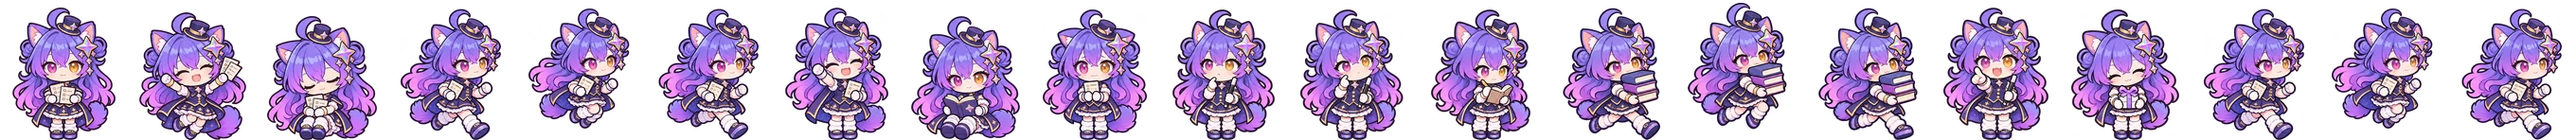
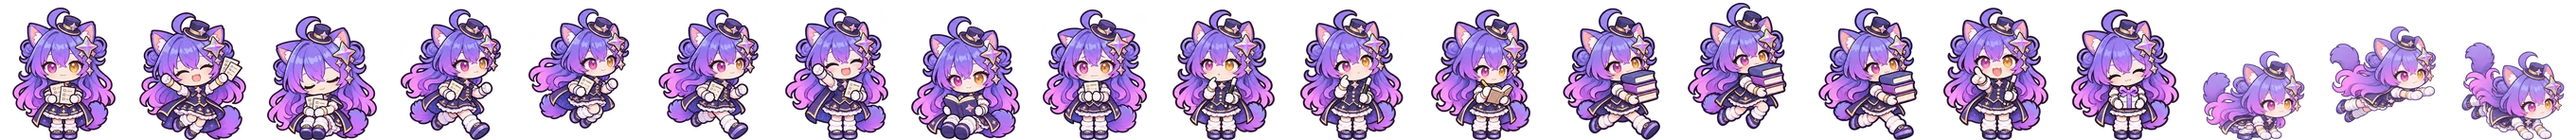
迷你小帮手：GPT 飞、Gemini 和 GLM 扑有了自己的移动帧，DeepSeek 改回跑步
- GPT、Gemini、GLM、魔术师 Gemini 的 mini.webp 带上 3 帧移动（GPT 画的那批，按 loki 选的版本）
- 切图：移动图按透明的空列分开每只（扑出去那帧会越过三等分线），三帧按身体重心对齐左右，
  不再按脚对齐（扑的时候一前冲一后退，看起来一卡一退）
- DeepSeek 试过游，还是跑步好看：她和皮肤都走默认的跑步

Changed region(s): [[0.8438, 0.0541, 1.0, 1.0]]

diff --git a/tests/mini_helper.test.js b/tests/mini_helper.test.js
@@ -39,7 +39,7 @@ test('crew_self_first_then_good_friends_by_points', () => {
   const c = M.crew('claude', { store, manifest, today: '2026-11-20', levelOf: lv })
   assert.deepEqual(c.map(x => x.id), ['claude', 'gemini', 'deepseek'])   // gpt 只「认识了」不算
   assert.equal(c[2].sheet, 'file:///x/characters/deepseek-pajamas/mini.webp')   // 穿着睡衣就是睡衣那套
-  assert.deepEqual(c.map(x => x.move), ['run', 'pounce', 'swim'])
+  assert.deepEqual(c.map(x => x.move), ['run', 'pounce', 'run'])   // deepseek 跑步（游泳试过不用了）
 })
 test('crew_falls_back_to_base_sheet_when_skin_has_none', () => {
   const c = M.crew('claude', { store: { 'claude+gpt': S(200) }, manifest, today: '2026-11-20', levelOf: lv })
@@ -75,7 +75,7 @@ test('crew_waits_for_level_up_chat_before_showing_friend', () => {
   assert.deepEqual(at({ points: 200, shown: 1, giftShown: true }), ['claude', 'gemini'])
 })
 test('move_of', () => {
-  assert.equal(M.moveOf('gpt'), 'fly'); assert.equal(M.moveOf('deepseek'), 'swim')
+  assert.equal(M.moveOf('gpt'), 'fly'); assert.equal(M.moveOf('deepseek'), 'run')
   assert.equal(M.moveOf('gemini'), 'pounce'); assert.equal(M.moveOf('glm'), 'pounce'); assert.equal(M.moveOf('kimi'), 'run')
 })
 // 连体衣的翅膀只是衣服上的装饰（loki 定的）：穿着它、用它自己那套图时跑着走，不飞

diff --git a/app/web/mini-helper.js b/app/web/mini-helper.js
@@ -259,10 +259,10 @@ html.tucked .mini { visibility: hidden; }`
     }
   }
 
-  // 移动方式按原版：gpt 飞，deepseek 游，gemini、glm 扑，其他跑。
+  // 移动方式按原版：gpt 飞，gemini、glm 扑，其他跑（deepseek 试过游，loki 觉得还是跑步好看）。
   // 皮肤另说的（MOVE_SKIN）：穿着它、用的又是它自己那套图时按皮肤的。连体衣的翅膀只是衣服上的装饰，跑着走不飞；
   // 皮肤没有自己的图、借原版那套时，帧是原版画的，照原版的走
-  const MOVE = { gpt: 'fly', deepseek: 'swim', gemini: 'pounce', glm: 'pounce' }
+  const MOVE = { gpt: 'fly', gemini: 'pounce', glm: 'pounce' }
   const MOVE_SKIN = { 'gpt-onesie': 'run' }
   const moveOf = (id, c) => (c && c.skin && MOVE_SKIN[c.skin] && c.poses && c.poses.mini && c.poses.mini[0] ? MOVE_SKIN[c.skin] : MOVE[id] || 'run')
 

diff --git a/tools/mini_cut.py b/tools/mini_cut.py
@@ -11,7 +11,7 @@
   mini_more  横图 3×2：跑步 3 帧；挥手、看书、着急
   mini_work  横图 3×2：思考 2 帧、记笔记；抱书（单帧，不用）、指你、递礼物
   mini_carry 横图 3×1：抱书跑 3 帧
-  mini_move  横图 3×1：移动 3 帧（可选；飞 / 游的身体是横的，按头宽对齐大小，脚对齐左右）
+  mini_move  横图 3×1：移动 3 帧（可选；飞 / 游 / 扑的身体是横的，按头宽对齐大小，重心对齐左右）
 缩放：每张按站着的小人缩到 STAND 高（mini 用待机、mini_more 用挥手、mini_work 用指你），抱书跑按 mini_work 里那个抱书的对齐大小，
 四张图之间大小一致。连着播的几帧（跑步、抱书跑按头对齐，思考按脚对齐）共用一个框，放进格子后不会左右抖、腾空那帧还是离地的。
 """
@@ -52,8 +52,35 @@ def cells(im, cols, rows):
     return out
 
 
+def figures(im, n):
+    """一行 n 只、中间留了空的图：按透明的空列分开（扑出去那帧可能越过三等分线，平分会切到隔壁的半个身子）。
+    碎块（发梢、飘带）并到最近的那只；分不出 n 只就退回平分"""
+    cols = mask(im).getprojection()[0]   # 每一列有没有不透明的像素
+    runs, start = [], None
+    for x, v in enumerate(list(cols) + [0]):
+        if v and start is None:
+            start = x
+        elif not v and start is not None:
+            runs.append([start, x])
+            start = None
+    while len(runs) > n:   # 最窄的一段并到离得近的邻居
+        i = min(range(len(runs)), key=lambda j: runs[j][1] - runs[j][0])
+        if i == 0 or (i < len(runs) - 1 and runs[i + 1][0] - runs[i][1] < runs[i][0] - runs[i - 1][1]):
+            runs[i + 1][0] = runs[i][0]
+        else:
+            runs[i - 1][1] = runs[i][1]
+        del runs[i]
+    if len(runs) != n:
+        return cells(im, n, 1)
+    edges = [0] + [(a[1] + b[0]) // 2 for a, b in zip(runs, runs[1:])] + [im.width]
+    return [im.crop((edges[i], 0, edges[i + 1], im.height)) for i in range(n)]
+
+
 def center_x(cell, part):
-    """头（part='head'：外框最上面 25%）或脚（part='feet'：最下面 12%）的左右中线"""
+    """头（part='head'：外框最上面 25%）或脚（part='feet'：最下面 12%）的左右中线；part='mass'：整个人的重心"""
+    if part == "mass":   # 每列不透明像素的多少当权重
+        cols = list(mask(cell).resize((cell.width, 1), Image.BOX).getdata())
+        return sum(x * v for x, v in enumerate(cols)) / max(1, sum(cols))
     b = bbox(cell)
     h = b[3] - b[1]
     band = (b[1], b[1] + h // 4) if part == "head" else (b[3] - max(8, h * 12 // 100), b[3])
@@ -89,9 +116,10 @@ def sheet_path(batch, st, cid, pose, use):
 
 
 def move_frames(cs, k_more, wave):
-    """mini_move 3 格：按头宽缩到和 mini_more 里挥手那个一样大，脚对齐"""
+    """mini_move 3 格：按头宽缩到和 mini_more 里挥手那个一样大；左右按重心对齐。
+    扑的那帧脚在身后，按脚对齐会把身子推到前面、落地那帧又退回来，小帮手本身一直匀速往前走，看起来就一卡一退"""
     k = k_more * head_width(wave) / head_width(cs[0])
-    return {name: scaled(c, k) for name, c in zip(("move-a", "move-b", "move-c"), group(cs, "feet"))}
+    return {name: scaled(c, k) for name, c in zip(("move-a", "move-b", "move-c"), group(cs, "mass"))}
 
 
 def cut(batch, cid, use, move_batch=None):
@@ -133,7 +161,7 @@ def cut(batch, cid, use, move_batch=None):
         out[name] = scaled(c, k)
 
     if mv:
-        out.update(move_frames(cells(Image.open(mv).convert("RGBA"), 3, 1), k_more, m[3]))
+        out.update(move_frames(figures(Image.open(mv).convert("RGBA"), 3), k_more, m[3]))
     else:
         for a, b in (("move-a", "run-a"), ("move-b", "run-b"), ("move-c", "run-c")):
             out[a] = out[b]
